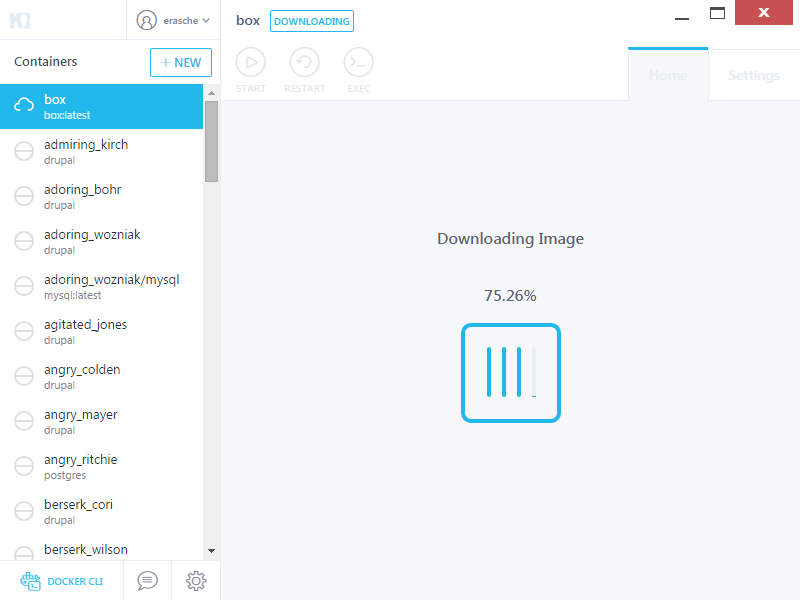
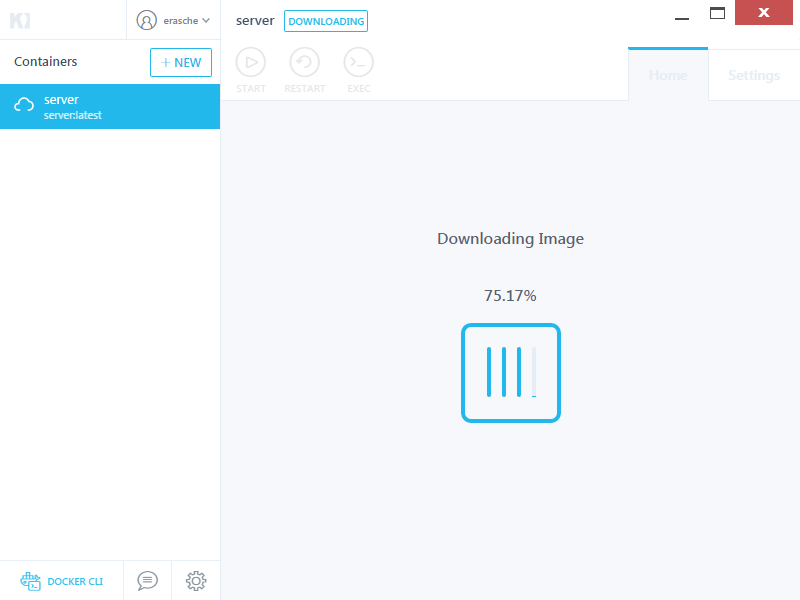
Updated docs with newer kitematic images of planemo/server

diff --git a/docs/appliance.rst b/docs/appliance.rst
@@ -57,25 +57,26 @@ Wait for Kitematic_ to load and search for `planemo/server`.
 .. image:: images/kitematic_startup.png
    :alt: Screenshot Kitematic Startup
 
+Once Kitematic_ has downloaded, you can use the search bar at the top to locate `planemo/server`
+
 .. image:: images/kitematic_search.png
    :alt: Screenshot Kitematic Search
 
-There may be several planemo containers discovered (the above image is a bit
-dated) - be sure to pick the `planemo/server` one for the experience optimized
-for Kitematic_. Choose to create this image and it will download and you
-see logs for the running container.
+There may be several planemo containers discovered  - be sure to pick the
+`planemo/server` one for the experience optimized for Kitematic_. Choose to
+create this image and it will download.
 
 .. image:: images/kitematic_downloading.png
    :alt: Screenshot Kitematic Downloading
 
-.. image:: images/kitematic_logs.png
+After a minute or so, you should see logs for the running
+container appear in the main window.
+
+.. image:: images/kitematic_exec.png
    :alt: Screenshot Kitematic Downloading
 
 Galaxy will now be available by clicking the link in the `Web Preview` section
 of the GUI.
-
-.. image:: images/kitematic_exec.png
-   :alt: Screenshot Kitematic Downloading
 
 Clicking the `Exec` button in the container's tool bar (at the
 top, middle of the screen) will launch a root command-prompt. Planemo is
